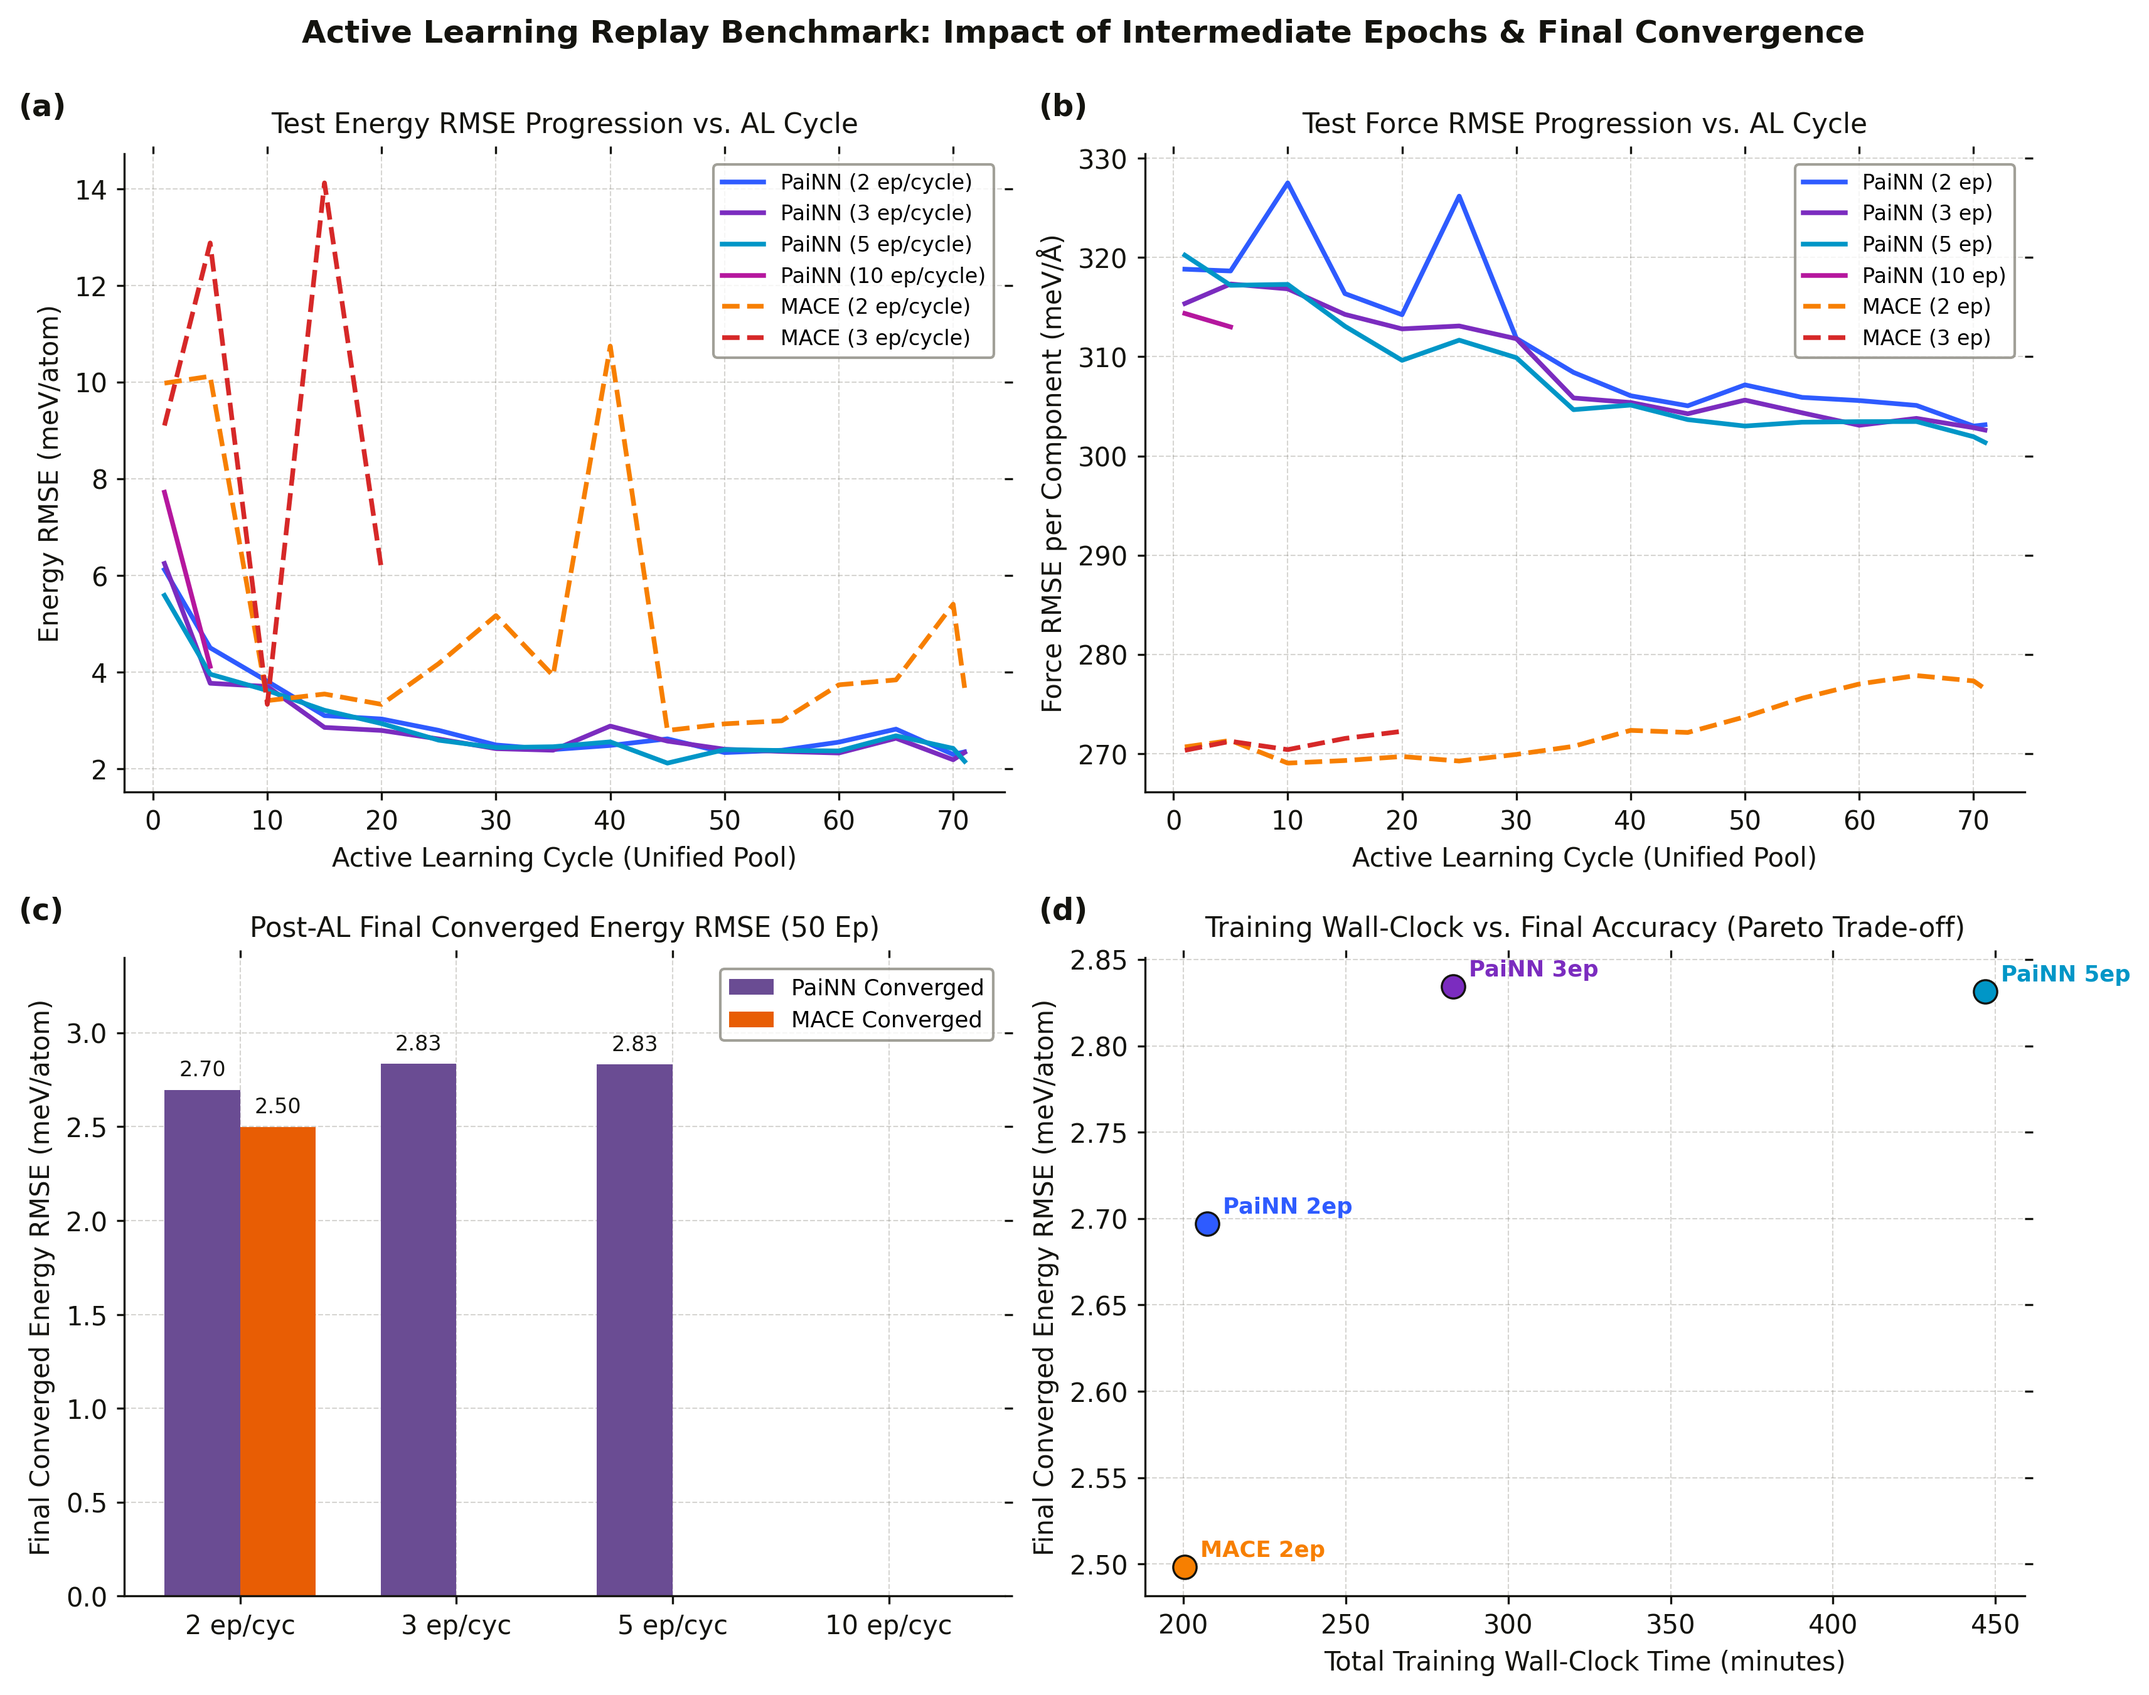
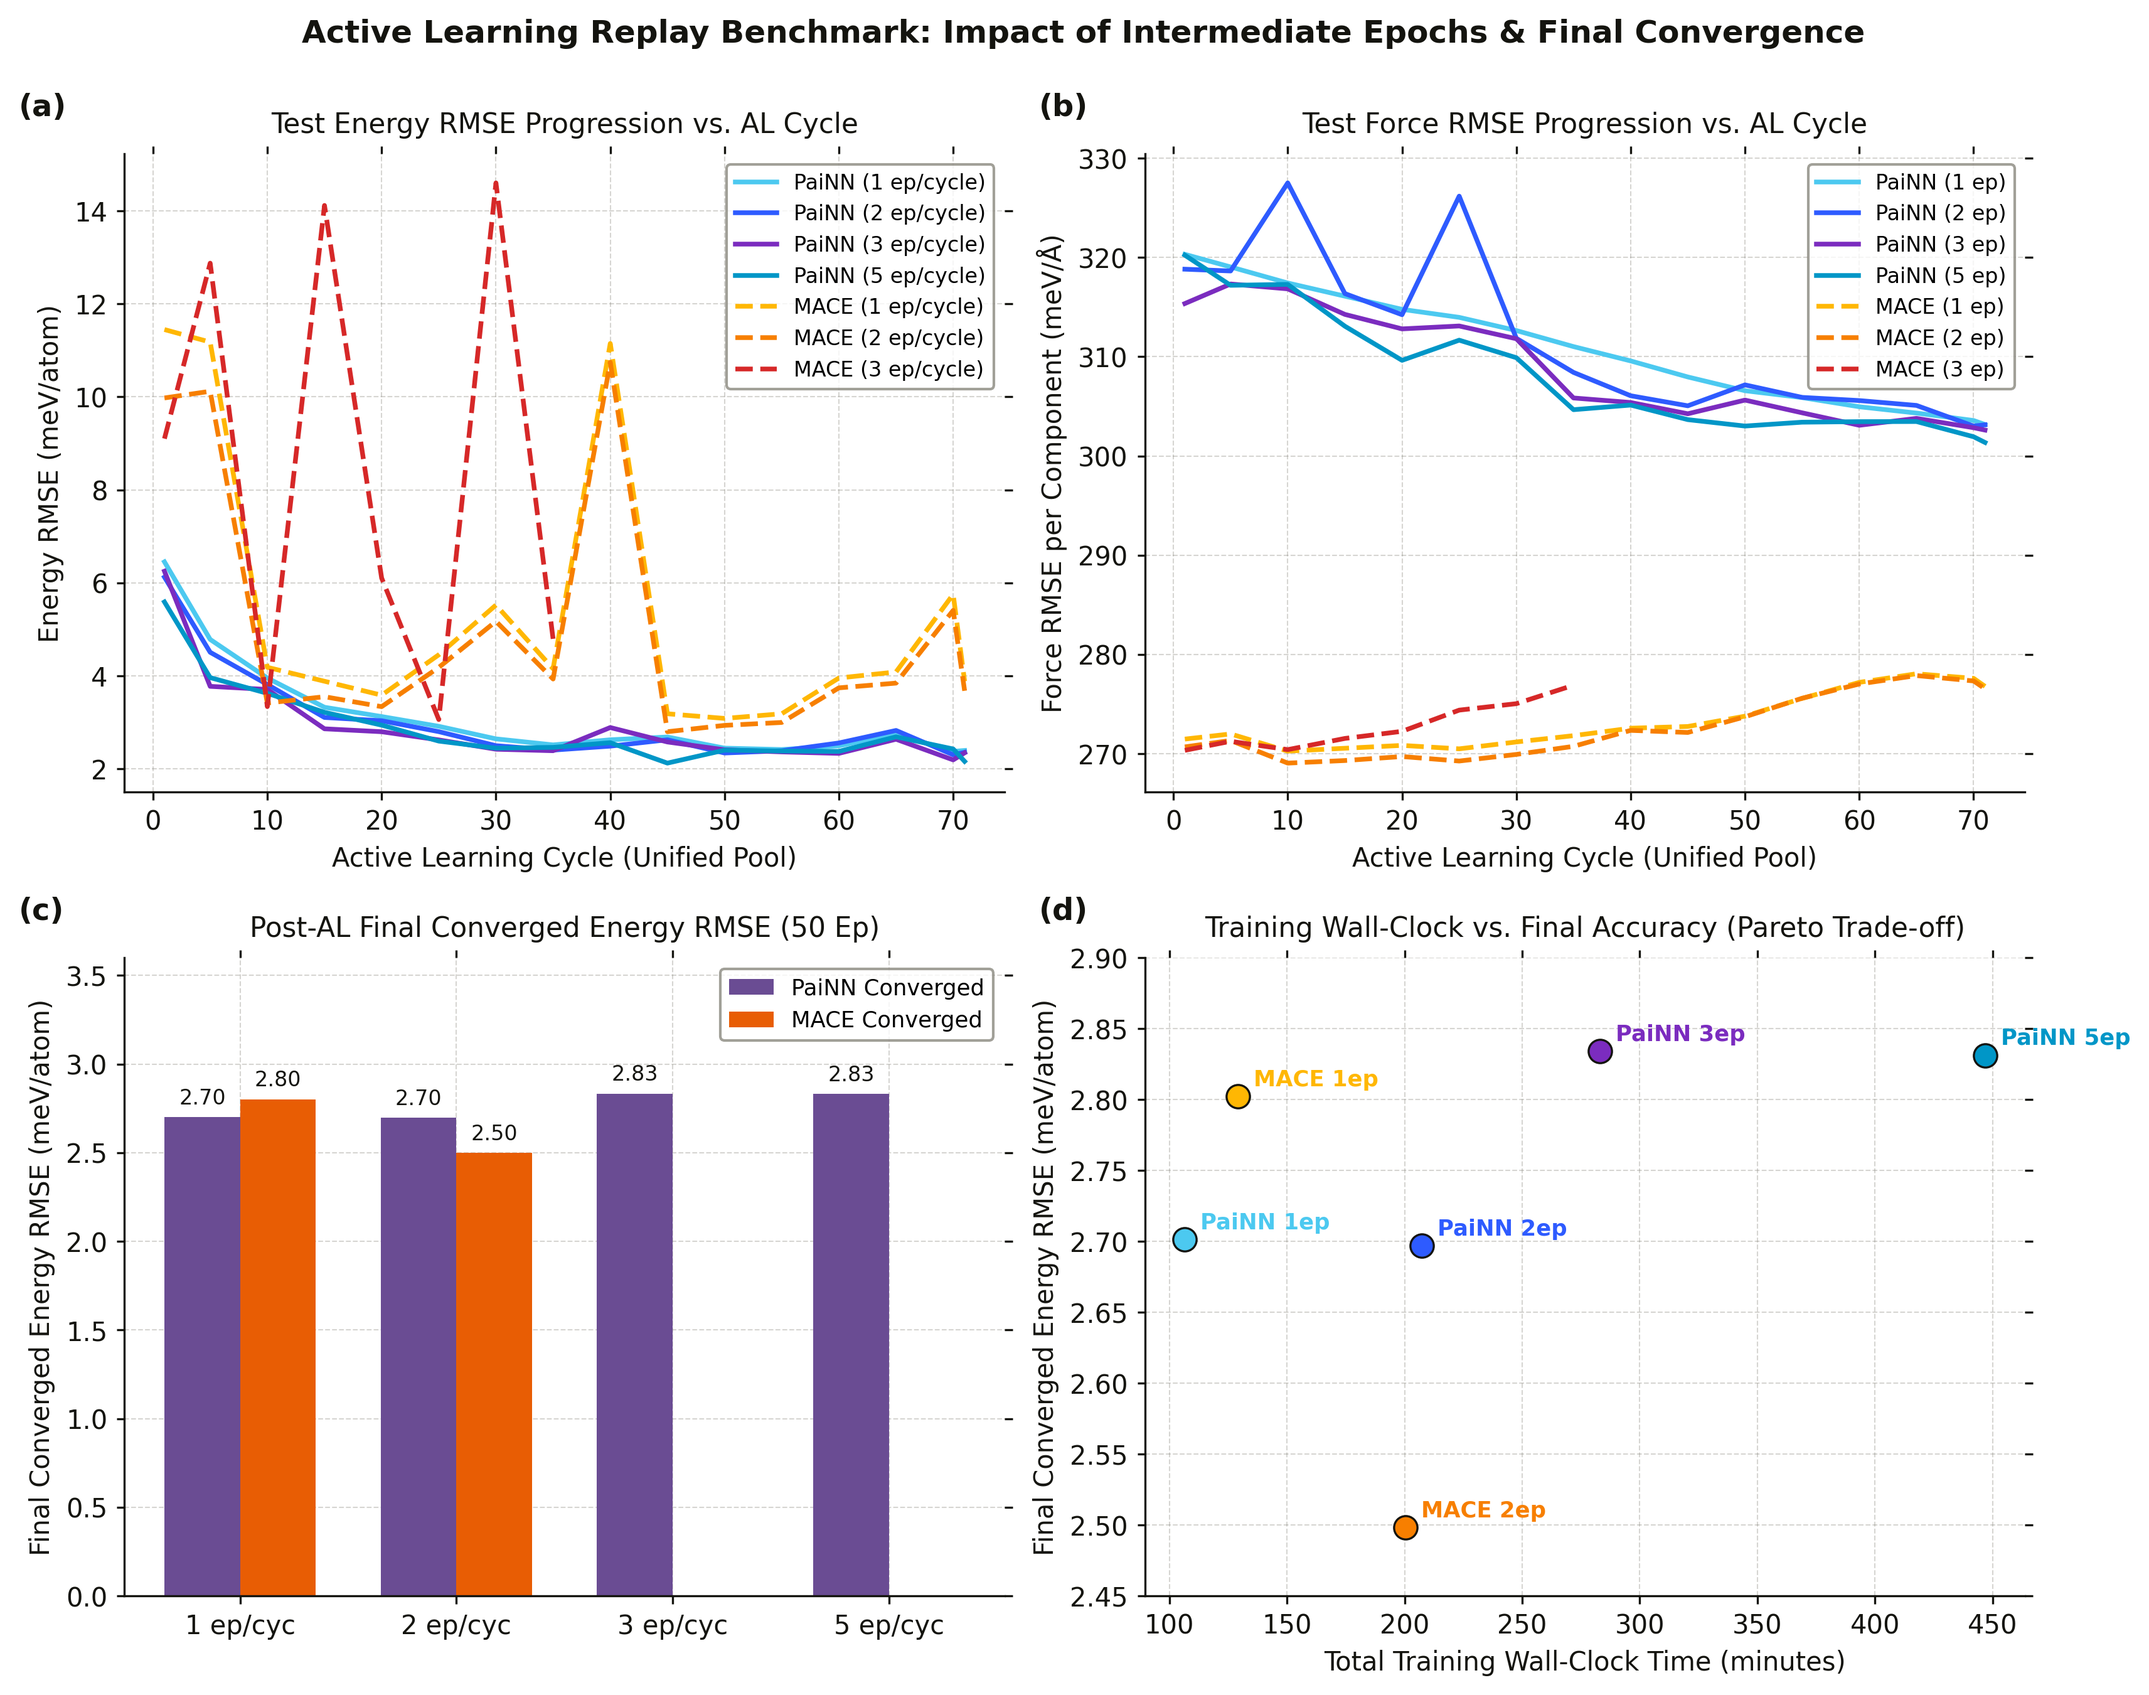
feat(benchmark): add 1-epoch training and remove 10-epoch curves from benchmark figure

diff --git a/benchmark_al_epochs/analyze_and_plot_benchmark.py b/benchmark_al_epochs/analyze_and_plot_benchmark.py
@@ -3,7 +3,7 @@
 ================================================================================
    BENCHMARK ANALYSIS & PUBLICATION PLOT: AL EPOCH VARIATION & CONVERGENCE
 ================================================================================
-Parses JSON metrics from PaiNN and MACE replay runs with 1, 2, 3, 5, and 10 epochs
+Parses JSON metrics from PaiNN and MACE replay runs with 1, 2, 3, and 5 epochs
 per cycle, plus final post-AL convergence sessions.
 Generates publication-quality head-to-head figures (300 DPI PNG).
 ================================================================================
@@ -26,17 +26,17 @@ INK = "#14140F"
 MUTED = "#8A887F"
 
 PAINN_COLORS = {
+    1: "#4CC9F0",
     2: "#2E5BFF",
     3: "#7B2CBF",
     5: "#0096C7",
-    10: "#B5179E",
 }
 
 MACE_COLORS = {
+    1: "#FFB703",
     2: "#F77F00",
     3: "#D62828",
     5: "#9D0208",
-    10: "#6A040F",
 }
 
 plt.rcParams.update({
@@ -79,7 +79,7 @@ def panel_label(ax, letter):
 def col_title(ax, text):
     ax.set_title(text, fontsize=10.5, fontweight="medium", color=INK, pad=8)
 
-def load_metrics(pattern):
+def load_metrics(pattern, allowed_epochs=(1, 2, 3, 5)):
     results = {}
     for d in sorted(BENCHMARK_DIR.glob(pattern)):
         m_file = d / "replay_metrics.json"
@@ -87,7 +87,8 @@ def load_metrics(pattern):
             with open(m_file, "r") as f:
                 data = json.load(f)
             ep = data.get("config", {}).get("epochs_per_cycle", 0)
-            results[(ep, d.name)] = data
+            if ep in allowed_epochs:
+                results[(ep, d.name)] = data
     return dict(sorted(results.items(), key=lambda kv: kv[0][0]))
 
 def main():
@@ -152,7 +153,7 @@ def main():
     col_title(ax, "Post-AL Final Converged Energy RMSE (50 Ep)")
     ax.set_ylabel("Final Converged Energy RMSE (meV/atom)")
 
-    epochs_list = [2, 3, 5, 10]
+    epochs_list = [1, 2, 3, 5]
     x = np.arange(len(epochs_list))
     width = 0.35
 
@@ -185,7 +186,7 @@ def main():
 
     ax.set_xticks(x)
     ax.set_xticklabels([f"{ep} ep/cyc" for ep in epochs_list])
-    ax.set_ylim(0, 3.4)
+    ax.set_ylim(0, 3.6)
     ax.legend(loc="upper right", fontsize=8.5, frameon=True, facecolor="white", edgecolor=MUTED)
 
     # Panel D: Total Computational Overhead vs. Final Error (Pareto Trade-off)
@@ -195,6 +196,7 @@ def main():
     col_title(ax, "Training Wall-Clock vs. Final Accuracy (Pareto Trade-off)")
     ax.set_xlabel("Total Training Wall-Clock Time (minutes)")
     ax.set_ylabel("Final Converged Energy RMSE (meV/atom)")
+    ax.set_ylim(2.45, 2.90)
 
     for (ep, name), data in painn_results.items():
         if data.get("final_convergence"):
